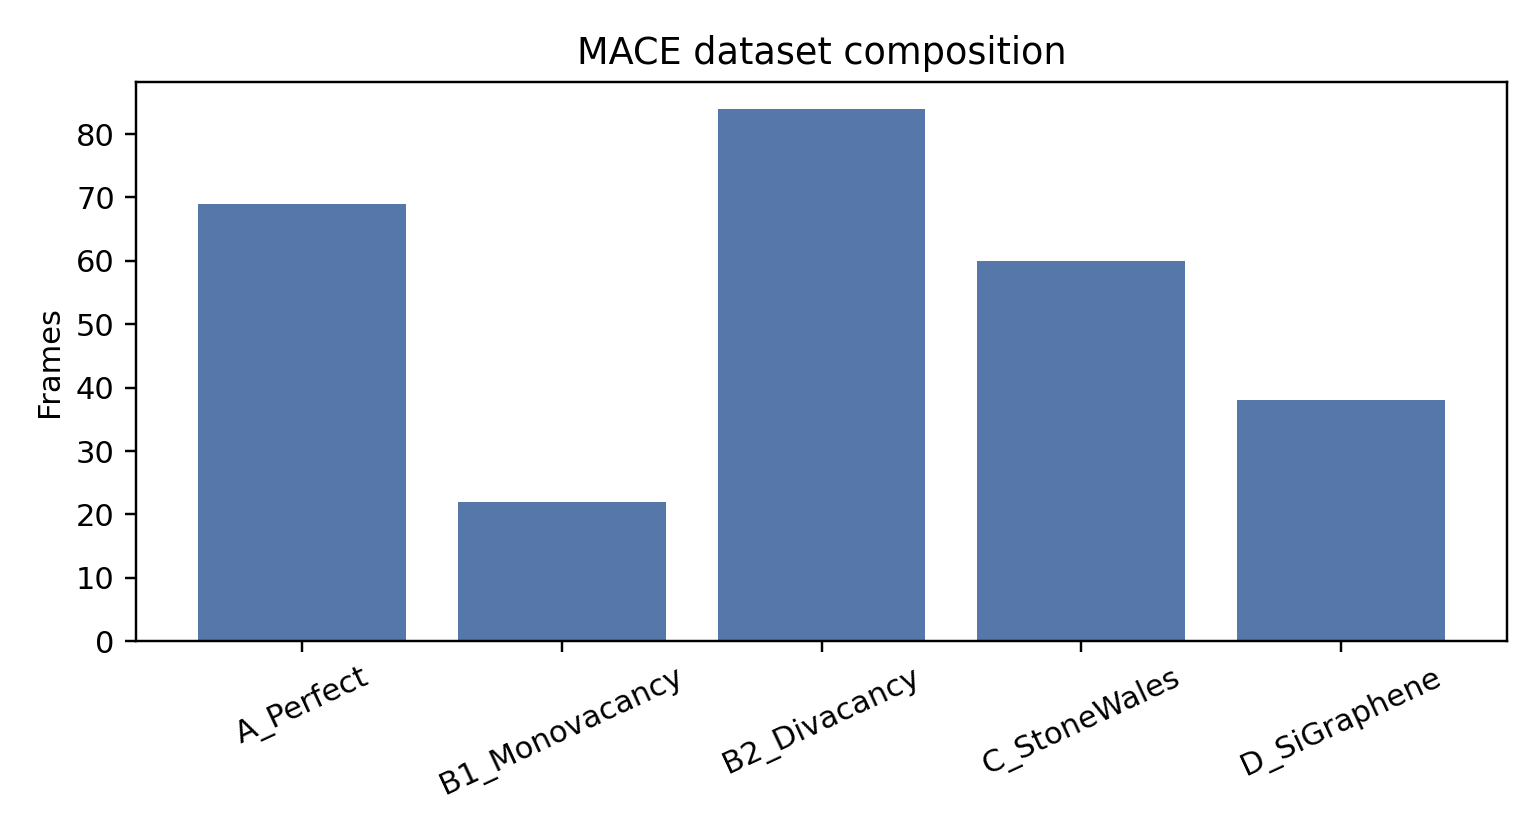
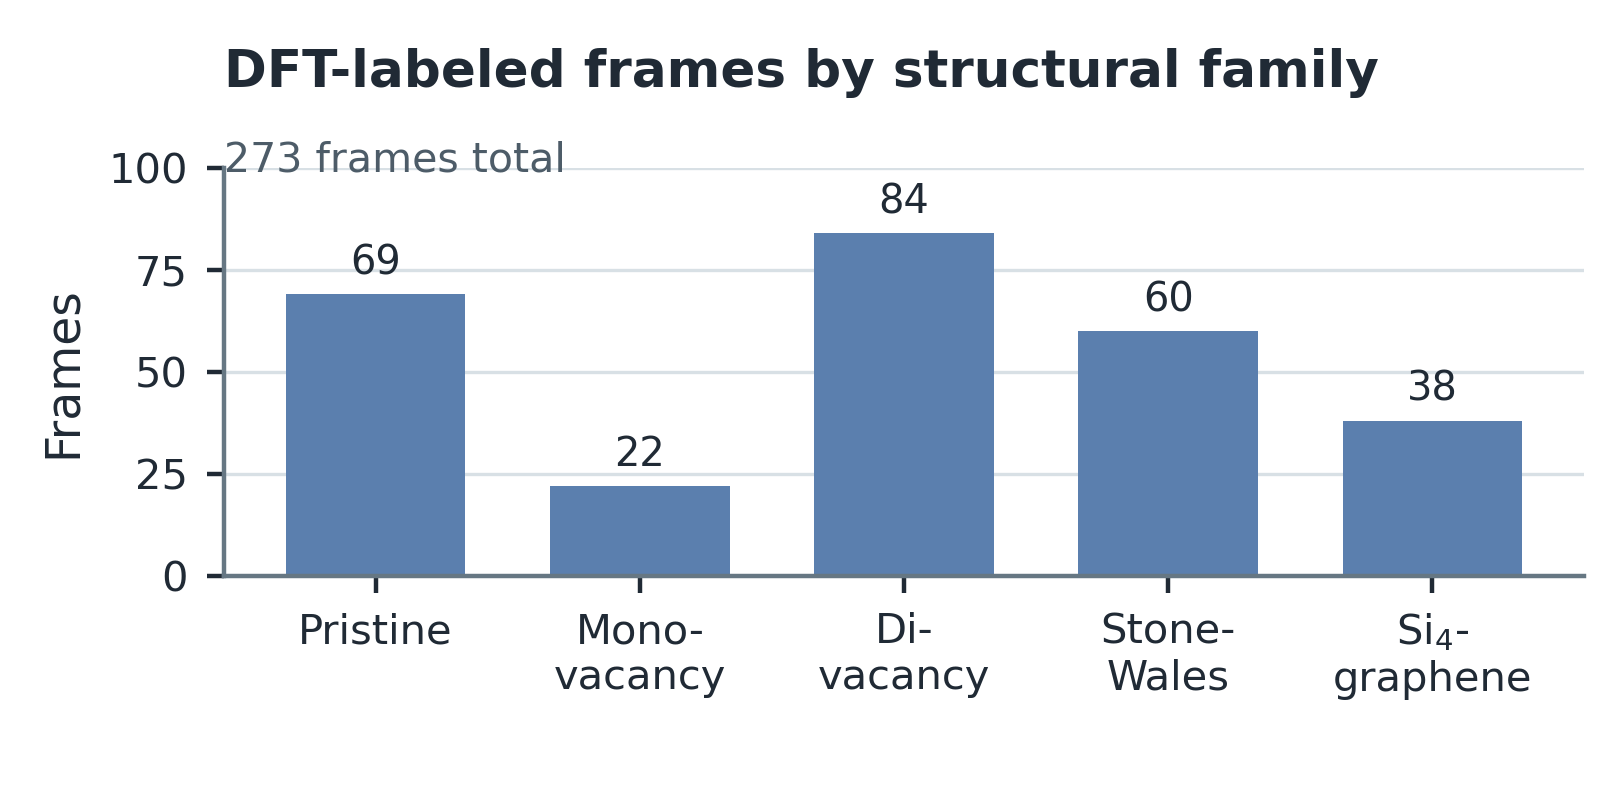
Polish reproducible MACE diagnostic figures

Changed region(s): [[0.0312, 0.0312, 0.9974, 0.9375], [0.9662, 0.1875, 0.9974, 0.2188], [0.6545, 0.875, 0.6857, 0.9062]]

diff --git a/manuscript/make_mace_error_figures.py b/manuscript/make_mace_error_figures.py
@@ -1,0 +1,218 @@
+#!/usr/bin/env python3
+"""Build the publication-facing MACE dataset and force-error figures."""
+
+from __future__ import annotations
+
+from pathlib import Path
+
+import matplotlib
+
+matplotlib.use("Agg")
+import matplotlib.pyplot as plt
+import numpy as np
+import pandas as pd
+
+
+ROOT = Path(__file__).resolve().parents[1]
+DATA = ROOT / "submission_data" / "results" / "mace_eval_summary.csv"
+FIGURE_DIR = ROOT / "manuscript" / "figures"
+DATASET_OUTPUT = FIGURE_DIR / "dataset_family_counts.png"
+COMPARISON_OUTPUT = FIGURE_DIR / "review_mace_foundation_comparison.png"
+
+FAMILIES = (
+    ("A_Perfect", "Pristine"),
+    ("B1_Monovacancy", "Mono-\nvacancy"),
+    ("B2_Divacancy", "Di-\nvacancy"),
+    ("C_StoneWales", "Stone-\nWales"),
+    ("D_SiGraphene", "Si$_4$-\ngraphene"),
+)
+MODELS = (
+    ("foundation_mpa0", "Foundation", "#2673A8"),
+    ("finetuned_3060ti", "Fine-tuned", "#E07831"),
+)
+OUTPUT_DPI = 400
+INK = "#202A35"
+GRID = "#D8E0E5"
+
+
+def _load_data() -> pd.DataFrame:
+    data = pd.read_csv(DATA)
+    required = {
+        "model_label",
+        "split",
+        "family",
+        "n_frames",
+        "force_rmse_mev_a_frame_rms",
+    }
+    missing = sorted(required - set(data.columns))
+    if missing:
+        raise ValueError(f"Missing columns in {DATA}: {missing}")
+    return data
+
+
+def _dataset_counts(data: pd.DataFrame) -> list[int]:
+    counts: list[int] = []
+    for family, _ in FAMILIES:
+        rows = data[
+            data["model_label"].eq("finetuned_3060ti")
+            & data["family"].eq(family)
+        ]
+        splits = set(rows["split"])
+        if splits != {"train", "valid", "test"}:
+            raise ValueError(
+                f"Expected train/valid/test rows for {family}, found {sorted(splits)}"
+            )
+        counts.append(int(rows["n_frames"].sum()))
+    if sum(counts) != 273:
+        raise ValueError(f"Expected 273 frames, found {sum(counts)}")
+    return counts
+
+
+def _test_force_rmse(data: pd.DataFrame, model: str, family: str) -> float:
+    rows = data[
+        data["model_label"].eq(model)
+        & data["split"].eq("test")
+        & data["family"].eq(family)
+    ]
+    if len(rows) != 1:
+        raise ValueError(
+            f"Expected one test row for model={model}, family={family}; "
+            f"found {len(rows)}"
+        )
+    return float(rows.iloc[0]["force_rmse_mev_a_frame_rms"])
+
+
+def _style_axis(ax: plt.Axes) -> None:
+    ax.set_axisbelow(True)
+    ax.grid(axis="y", color=GRID, linewidth=0.6)
+    ax.spines[["top", "right"]].set_visible(False)
+    ax.spines[["left", "bottom"]].set_color("#667783")
+    ax.tick_params(axis="both", labelsize=7.5, colors=INK, length=3)
+
+
+def _save_dataset_figure(data: pd.DataFrame) -> None:
+    counts = _dataset_counts(data)
+    x = np.arange(len(FAMILIES))
+
+    fig, ax = plt.subplots(figsize=(4.0, 2.0), dpi=OUTPUT_DPI)
+    fig.subplots_adjust(left=0.14, right=0.99, top=0.79, bottom=0.28)
+    bars = ax.bar(x, counts, width=0.68, color="#5B7FAE")
+
+    _style_axis(ax)
+    ax.set_ylim(0, 100)
+    ax.set_ylabel("Frames", fontsize=8.5, color=INK)
+    ax.set_xticks(x, [label for _, label in FAMILIES])
+    ax.bar_label(bars, padding=2, fontsize=7.2, color=INK)
+
+    fig.text(
+        0.14,
+        0.94,
+        "DFT-labeled frames by structural family",
+        ha="left",
+        va="top",
+        fontsize=9.3,
+        fontweight="bold",
+        color=INK,
+    )
+    fig.text(
+        0.14,
+        0.825,
+        "273 frames total",
+        ha="left",
+        va="top",
+        fontsize=7.4,
+        color="#4D5C68",
+    )
+    fig.savefig(
+        DATASET_OUTPUT,
+        dpi=OUTPUT_DPI,
+        facecolor="white",
+        metadata={"Software": "Matplotlib"},
+    )
+    plt.close(fig)
+
+
+def _save_comparison_figure(data: pd.DataFrame) -> None:
+    x = np.arange(len(FAMILIES))
+    width = 0.36
+
+    fig, ax = plt.subplots(figsize=(4.0, 2.0), dpi=OUTPUT_DPI)
+    fig.subplots_adjust(left=0.17, right=0.99, top=0.75, bottom=0.28)
+
+    for index, (model, label, color) in enumerate(MODELS):
+        values = [
+            _test_force_rmse(data, model, family)
+            for family, _ in FAMILIES
+        ]
+        offset = (index - 0.5) * width
+        bars = ax.bar(
+            x + offset,
+            values,
+            width=width,
+            label=label,
+            color=color,
+        )
+        ax.bar_label(
+            bars,
+            labels=[f"{value:.1f}" for value in values],
+            padding=1.5,
+            fontsize=6.4,
+            color=INK,
+        )
+
+    _style_axis(ax)
+    ax.set_ylim(0, 420)
+    ax.set_ylabel(
+        r"Force RMSE (meV $\mathrm{\AA}^{-1}$)",
+        fontsize=8.2,
+        color=INK,
+    )
+    ax.set_xticks(x, [label for _, label in FAMILIES])
+    ax.legend(
+        loc="upper right",
+        frameon=False,
+        fontsize=7.0,
+        handlelength=1.4,
+        borderaxespad=0.2,
+    )
+
+    fig.text(
+        0.17,
+        0.94,
+        "Initial same-workflow test force RMSE",
+        ha="left",
+        va="top",
+        fontsize=9.3,
+        fontweight="bold",
+        color=INK,
+    )
+    fig.text(
+        0.17,
+        0.825,
+        "Original diagnostic split; not a transferability test",
+        ha="left",
+        va="top",
+        fontsize=7.4,
+        color="#4D5C68",
+    )
+    fig.savefig(
+        COMPARISON_OUTPUT,
+        dpi=OUTPUT_DPI,
+        facecolor="white",
+        metadata={"Software": "Matplotlib"},
+    )
+    plt.close(fig)
+
+
+def main() -> int:
+    data = _load_data()
+    FIGURE_DIR.mkdir(parents=True, exist_ok=True)
+    _save_dataset_figure(data)
+    _save_comparison_figure(data)
+    print(f"Wrote {DATASET_OUTPUT}")
+    print(f"Wrote {COMPARISON_OUTPUT}")
+    return 0
+
+
+if __name__ == "__main__":
+    raise SystemExit(main())

diff --git a/manuscript/li_mace_graphene_draft.tex b/manuscript/li_mace_graphene_draft.tex
@@ -116,7 +116,7 @@ The dataset spans five distinct defect and compositional environments (Fig.~\ref
   \begin{subfigure}{0.52\textwidth}
     \centering
     \includegraphics[width=\textwidth]{figures/review_mace_foundation_comparison.png}
-    \caption{Foundation-model versus fine-tuned held-out test force RMSE.}
+    \caption{Foundation model versus fine-tuned initial same-workflow test force RMSE.}
   \end{subfigure}
   \caption{MACE dataset and initial error diagnostics. Fine-tuning strongly reduces same-workflow force error relative to the unfine-tuned MACE-MPA-0 foundation model, but the audited split and \(E_0\)-reference issues prevent treating these numbers as final transferability metrics.}
   \label{fig:mace_error}
@@ -168,7 +168,7 @@ The follow-up PBE-D3(BJ) adsorption-energy single points with a slab dipole corr
 
 \begin{table}[!t]
   \centering
-  \caption{PBE-D3(BJ) single-point adsorption energies with a slab dipole correction for the current dilute-limit Li geometries. Energies use $E_{\mathrm{ads}} = E(\mathrm{Li+substrate}) - E(\mathrm{substrate}) - n_{\mathrm{Li}}E(\mathrm{Li\ atom})$ and are reported per Li atom.}
+  \caption{PBE-D3(BJ) fixed-geometry single-point adsorption energies with a slab dipole correction for the current dilute-limit Li geometries. Energies use $E_{\mathrm{ads}} = E(\mathrm{Li+substrate}) - E(\mathrm{substrate}) - n_{\mathrm{Li}}E(\mathrm{Li\ atom})$ and are reported per Li atom.}
   \label{tab:adsorption_d3}
   \begin{tabular}{lc}
     \toprule

diff --git a/review_revision/static_check_manuscript.py b/review_revision/static_check_manuscript.py
@@ -131,6 +131,31 @@ def main() -> int:
         if not figure_path.exists():
             errors.append(f"missing figure: {figure_path}")
 
+    mace_figure_generator = tex_path.parent / "make_mace_error_figures.py"
+    if not mace_figure_generator.exists():
+        errors.append(f"missing MACE figure generator: {mace_figure_generator}")
+    else:
+        generator_text = mace_figure_generator.read_text(
+            encoding="utf-8", errors="replace"
+        )
+        if "meV/A" in generator_text:
+            errors.append(
+                "MACE figure generator uses ambiguous force units: replace "
+                "'meV/A' with an explicit per-angstrom form"
+            )
+        for snippet, label in (
+            (
+                r"\mathrm{\AA}^{-1}",
+                "unambiguous inverse-angstrom force unit",
+            ),
+            (
+                "not a transferability test",
+                "same-workflow transferability limitation",
+            ),
+        ):
+            if snippet not in generator_text:
+                errors.append(f"MACE figure generator missing {label}")
+
     bib_keys = set(re.findall(r"@\w+\s*\{\s*([^,\s]+)", bib))
     cite_keys: set[str] = set()
     for match in re.finditer(r"\\cite[palt]?\{([^}]+)\}", text):

diff --git a/review_revision/build_reproducibility_archive.py b/review_revision/build_reproducibility_archive.py
@@ -22,6 +22,7 @@ REQUIRED_FILES = {
     "manuscript/graphical_abstract_caption.txt",
     "manuscript/li_mace_graphene_draft.tex",
     "manuscript/make_graphical_abstract.py",
+    "manuscript/make_mace_error_figures.py",
     "manuscript/references.bib",
     "manuscript/figures/dataset_family_counts.png",
     "manuscript/figures/path_profiles_revised.png",

diff --git a/review_revision/COMPLETION_AUDIT.md b/review_revision/COMPLETION_AUDIT.md
@@ -126,6 +126,12 @@ initial-campaign snapshots are used only as DFT sanity checks.
 - `python manuscript/make_graphical_abstract.py`
   - Result: PASSED from a clean repository checkout using only the tracked
     curated CSVs in `submission_data/results/`.
+- `python manuscript/make_mace_error_figures.py`
+  - Result: PASSED from a clean repository checkout using the tracked
+    `submission_data/results/mace_eval_summary.csv`. The two active MACE panels
+    use publication-facing family names, an unambiguous inverse-angstrom force
+    unit, and an in-figure same-workflow/not-transferability limitation. Two
+    consecutive runs produced byte-identical PNG outputs.
 - The Data and Code Availability statement does not claim public access to the
   currently private GitHub repository. A version-pinned archive is designated
   for supplementary peer-review access. Under the target journal's Option C
@@ -149,7 +155,7 @@ initial-campaign snapshots are used only as DFT sanity checks.
   Python scripts.
 - `bash -n` was run on the reviewer Slurm scripts, status script, and manuscript
   compile script.
-- The manuscript PDF was compiled successfully on 2026-07-26 at 08:58 EDT with
+- The manuscript PDF was compiled successfully on 2026-07-26 at 09:27 EDT with
   a temporary Tectonic binary because no resident cluster TeX toolchain is on
   `PATH`.
   `manuscript/li_mace_graphene_draft.log` contains no `Overfull`,
@@ -164,6 +170,10 @@ initial-campaign snapshots are used only as DFT sanity checks.
   renders as meV \(\mathrm{\AA}^{-1}\), replacing the ambiguous slash-A
   notation. After suppressing volatile PDF creation-date metadata, two
   consecutive generator runs produced byte-identical PNG and PDF outputs.
+  Figure 2 was regenerated from the curated MACE summary so both panels replace
+  internal family codes with publication-facing labels; panel (b) now carries
+  the same-workflow/not-transferability boundary and the inverse-angstrom unit
+  inside the image.
   Pages 5, 12--14, and 16--17
   were re-rendered after neutralizing revision-stage wording, clarifying the
   diagnostic-to-claim contribution, and aligning the competing-interests

diff --git a/review_revision/MANUSCRIPT_EVIDENCE_AUDIT.md b/review_revision/MANUSCRIPT_EVIDENCE_AUDIT.md
@@ -1,6 +1,6 @@
 # Manuscript Evidence Audit
 
-Date: 2026-07-26 09:12 EDT
+Date: 2026-07-26 09:27 EDT
 
 Scope: `manuscript/li_mace_graphene_draft.tex` was checked against the current
 worktree, `review_revision/check_reviewer_jobs.sh`, and current
@@ -98,6 +98,10 @@ evidence.
   barriers without calling unconverged calculations barriers. Its generator
   reads the tracked curated CSVs in `submission_data/results/`, so it runs from
   a clean repository checkout without the untracked raw `results/` tree.
+- Rebuilt both active MACE diagnostic panels directly from the tracked curated
+  evaluator summary. The panels use publication-facing family labels, and the
+  force panel displays an unambiguous inverse-angstrom unit plus an in-figure
+  warning that the original same-workflow split is not a transferability test.
 - Added the Elsevier-required declaration of generative-AI use in manuscript
   preparation, using the publisher's author-responsibility wording.
 - Expanded the CRediT statement to full author names and replaced the abbreviated
@@ -196,6 +200,10 @@ evidence.
   uses the unambiguous plain-text form `meV per angstrom`. Volatile PDF
   creation-date metadata was removed; two consecutive generator runs produced
   byte-identical PNG and PDF files.
+- Figure 2 was regenerated from the curated MACE summary and inspected on the
+  rendered manuscript page. Publication-facing family labels, value labels,
+  the inverse-angstrom unit, and the same-workflow/not-transferability warning
+  remain readable without clipping or overlap.
 
 ## Still Not Independently Verified
 

diff --git a/REPRODUCIBILITY_ARCHIVE_MANIFEST.md b/REPRODUCIBILITY_ARCHIVE_MANIFEST.md
@@ -16,8 +16,10 @@ author on reasonable request. The manuscript does not claim an archive DOI.
 
 ## Include
 
-- Active manuscript source under `manuscript/`, including `references.bib` and
-  only the figures used by the current manuscript or graphical abstract.
+- Active manuscript source under `manuscript/`, including `references.bib`,
+  only the figures used by the current manuscript or graphical abstract, and
+  the generators that rebuild the graphical abstract and both MACE diagnostic
+  panels from tracked curated data.
 - The compact `submission_data/` package, including the 273-frame original and
   group-held-out extxyz splits, curated numerical evidence tables, package
   documentation, and `MANIFEST.sha256`.
@@ -83,3 +85,7 @@ The archive-level verifier does not reconstruct excluded raw calculations. It
 checks the integrity of the curated files and consistency between those files
 and the manuscript. The default full-evidence verifier additionally checks raw
 OUTCAR markers, input scripts, runtime logs, and live collector/status gates.
+The active MACE dataset-count and same-workflow force-RMSE panels regenerate
+from `submission_data/results/mace_eval_summary.csv`; their publication-facing
+labels, force unit, and transferability limitation do not depend on the ignored
+raw-results tree.

diff --git a/review_revision/COMPUTATIONAL_MATERIALS_SCIENCE_SUBMISSION_CHECKLIST.md b/review_revision/COMPUTATIONAL_MATERIALS_SCIENCE_SUBMISSION_CHECKLIST.md
@@ -35,6 +35,10 @@ Li-diffusion or practical battery-anode study.
 - [x] A data-derived, non-generative-AI graphical abstract is present at
   `manuscript/graphical_abstract.png` (3600 x 1440, 2.5:1, 300 dpi), with a
   separate caption and unambiguous force units in meV per angstrom.
+- [x] Both MACE diagnostic panels use publication-facing family labels; the
+  force panel displays meV per inverse angstrom and states that the original
+  same-workflow split is not a transferability test. Both panels regenerate
+  deterministically from the tracked curated MACE summary.
 - [x] The manuscript includes the required declaration of generative-AI use in
   manuscript preparation.
 - [x] Affiliations use lower-case superscript letters and full postal addresses
